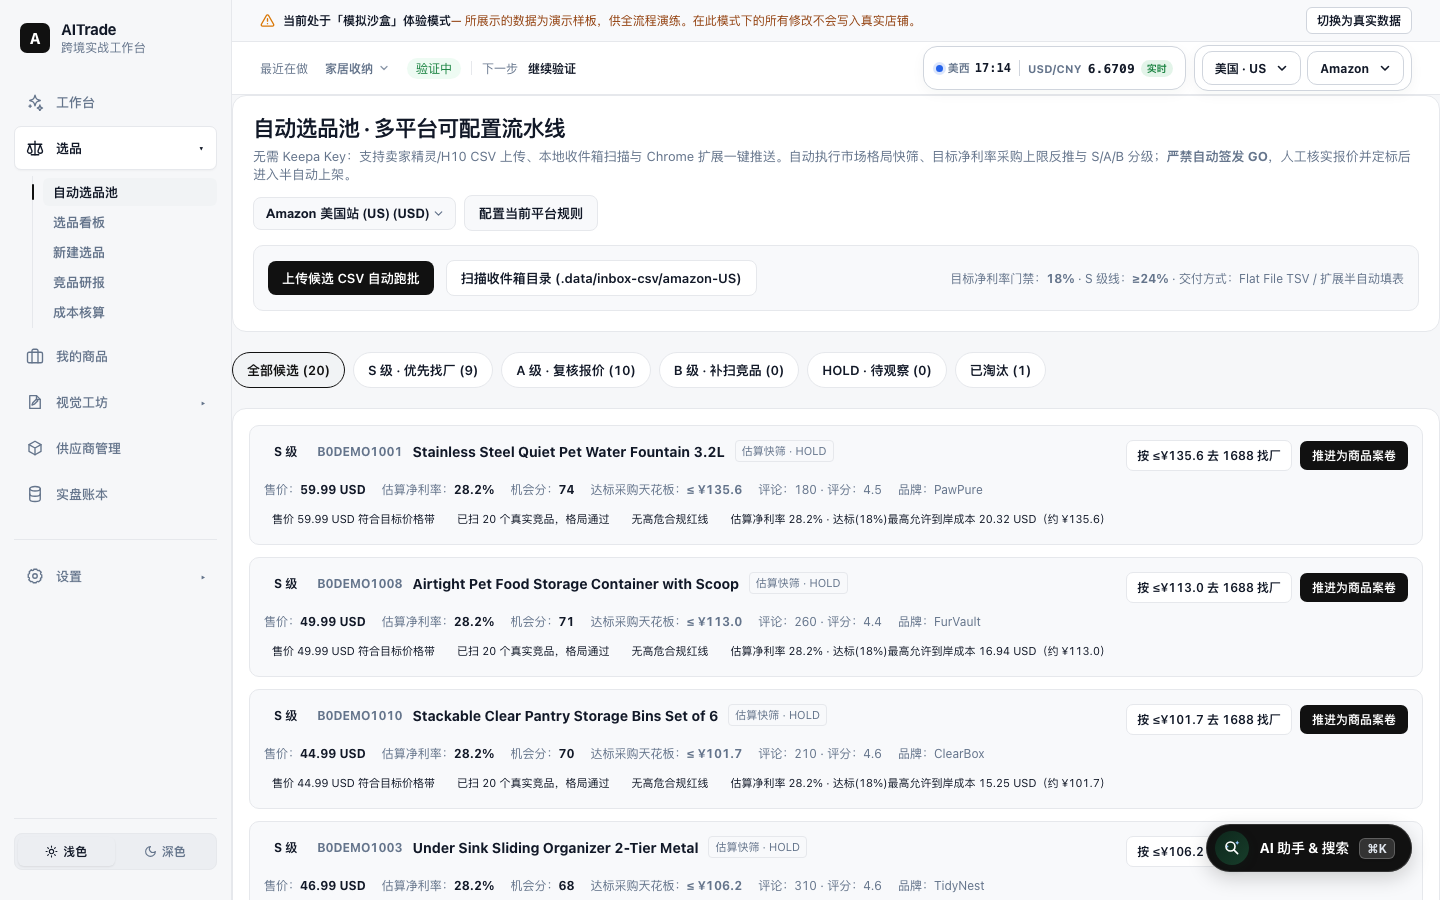
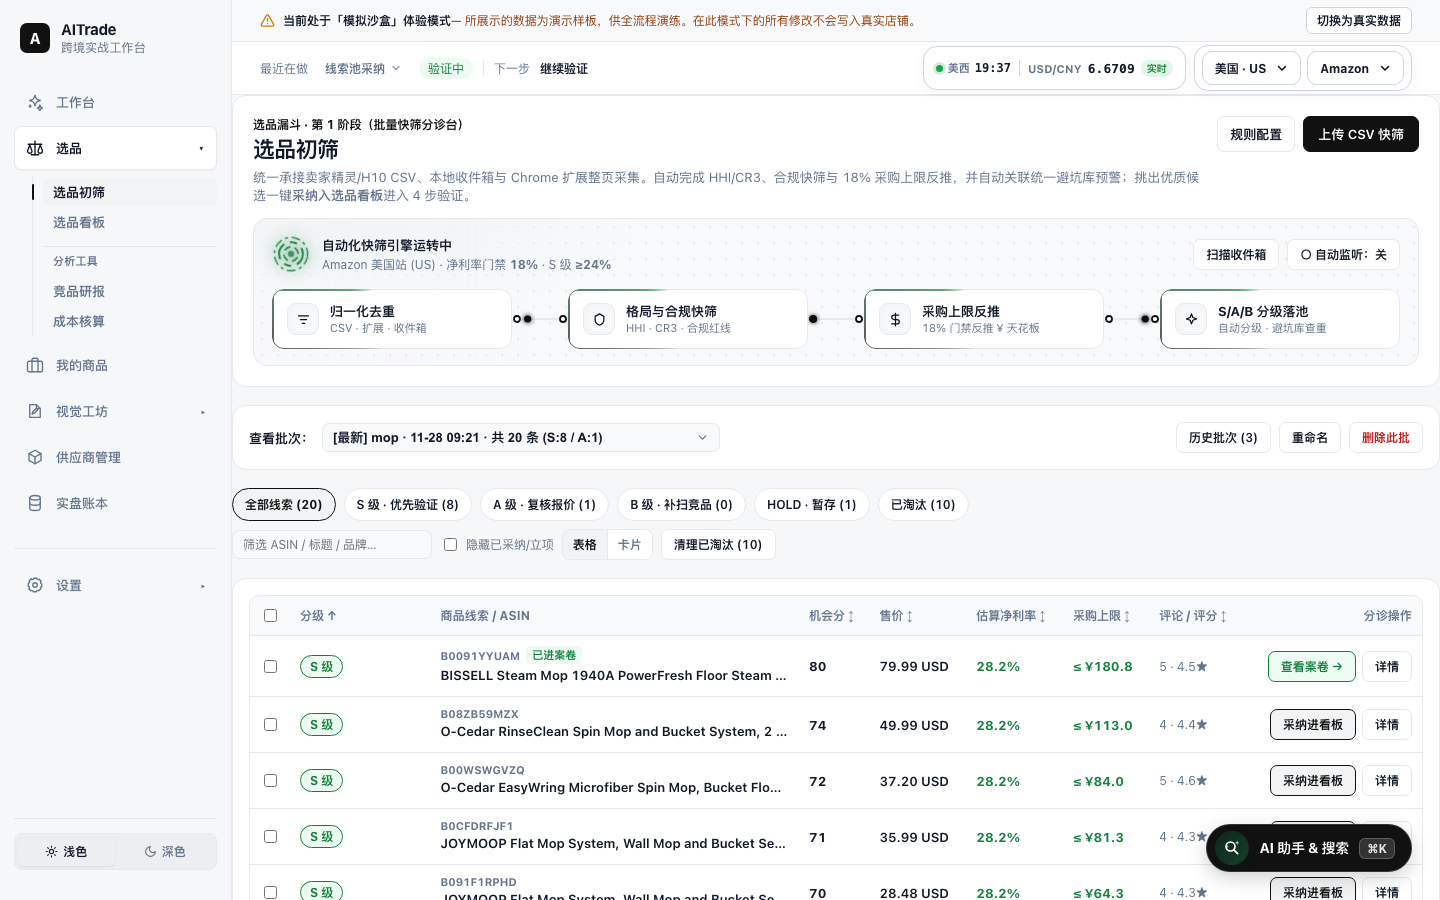
docs: update README flowchart and recapture light/dark screenshots

diff --git a/README.md b/README.md
@@ -10,9 +10,9 @@
 |---|---|
 | ![AITrade 浅色模式](docs/assets/aitrade-workspace-light.png) | ![AITrade 深色模式](docs/assets/aitrade-workspace-dark.png) |
 
-| 自动选品 · 浅色模式 | 自动选品 · 深色模式 |
+| 选品初筛 · 浅色模式 | 选品初筛 · 深色模式 |
 |---|---|
-| ![AITrade 自动选品浅色模式](docs/assets/aitrade-auto-pipeline-light.png) | ![AITrade 自动选品深色模式](docs/assets/aitrade-auto-pipeline-dark.png) |
+| ![AITrade 选品初筛浅色模式](docs/assets/aitrade-auto-pipeline-light.png) | ![AITrade 选品初筛深色模式](docs/assets/aitrade-auto-pipeline-dark.png) |
 
 ---
 
@@ -33,33 +33,35 @@ npm run dev
 
 ---
 
-## 端到端工作流程（全自动选品 → 半自动上架）
+## 端到端工作流程（选品初筛 → 选品看板 → 半自动上架）
 
 ```mermaid
 flowchart LR
-    subgraph S1["1. 全自动选品（多平台可配置 · 零 Keepa Key 可用）"]
-        A1["Chrome 扩展一键推池 /<br/>卖家精灵·H10 CSV / 本地收件箱"] --> A2["市场格局 HHI·CR3 +<br/>合规红线确定性快筛"]
-        A2 --> A3["18% 净利率反推采购上限 (¥)<br/>自动分级：S / A / B / HOLD / 淘汰"]
+    subgraph S1["1. 选品初筛（/auto-pipeline · 涡轮快筛分诊）"]
+        A1["Chrome 扩展一键推池 /<br/>卖家精灵·H10 CSV / 15s 自动监听收件箱"] --> A2["归一化去重 +<br/>HHI·CR3·合规红线确定性快筛"]
+        A2 --> A3["18% 净利率反推采购上限 (¥)<br/>S / A / B / HOLD / 淘汰 + 避坑预警"]
     end
 
-    subgraph S2["2. 1688 寻源与人工定标（卡点 1）"]
-        B1["S/A 级带采购天花板<br/>跳 1688 找厂 + 扩展抓报价"] --> B2["推进为商品案卷<br/>成本核算 + 拿样定标"]
-        B2 --> B3{"财务与真实证据门禁"}
-        B3 -->|"通过"| B4["人工确认 GO · 立项"]
-        B3 -->|"缺报价 / 承压"| B5["HOLD / NO-GO"]
+    subgraph S2["2. 选品看板与人工定标（/ai-sourcing · 卡点 1）"]
+        B0["+ 添加选品：AI 找方向 /<br/>已确认研报 / 已确认核算单"] --> B1["选品看板 4 步验证<br/>竞品研报 → 成本核算 → 1688 找厂拿样"]
+        B1 --> B3{"财务与真实证据门禁"}
+        B3 -->|"通过"| B4["人工确认 GO · 进商品案卷"]
+        B3 -->|"淘汰"| BL["统一避坑库<br/>全站导入/AI发散自动查重预警"]
     end
 
-    subgraph S3["3. 内容终审与半自动上架（卡点 2）"]
+    subgraph S3["3. 内容终审与半自动上架（/cases · 卡点 2）"]
         C1["AI 生成五点/标题/搜索词<br/>视觉工坊生图·视频 + 主图预检"] --> C2["人工内容终审通过"]
         C2 --> C3["Chrome 扩展多平台一键填表 +<br/>多平台模板导出 (Amazon TSV / Shopify Draft CSV) + ZIP"]
         C3 --> C4["卖家后台人工传图并点击发布"]
     end
 
-    subgraph S4["4. 实盘对账与校准"]
+    subgraph S4["4. 实盘对账与校准（/operations）"]
         D1["Settlement V2 + FBA 库存"] --> D2["实盘与预测利润对比"]
     end
 
-    A3 --> B1
+    A3 -->|"采纳进看板（主动作）"| B1
+    A3 -.->|"批量淘汰"| BL
+    A3 -.->|"S/A 级快轨（初始 HOLD）"| C1
     B4 --> C1
     C4 --> D1
     D2 -.->|"校准后续测算"| A2
@@ -68,9 +70,9 @@ flowchart LR
     classDef success fill:#ecfdf3,stroke:#15803d,color:#0f172a,stroke-width:1.5px;
     classDef warn fill:#fffbeb,stroke:#b45309,color:#0f172a,stroke-width:1.5px;
 
-    class A1,A2,C1,C3 primary;
+    class A1,A2,B0,C1,C3 primary;
     class B4,C2,C4,D1 success;
-    class A3,B1,B2,B3,B5,D2 warn;
+    class A3,B1,B3,BL,D2 warn;
 ```
 
 ---
